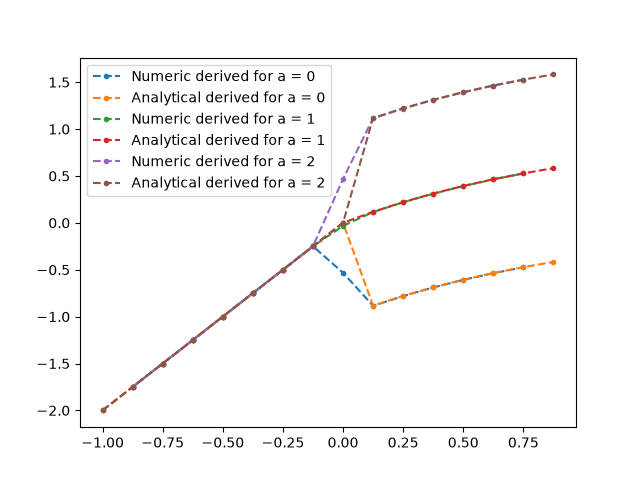
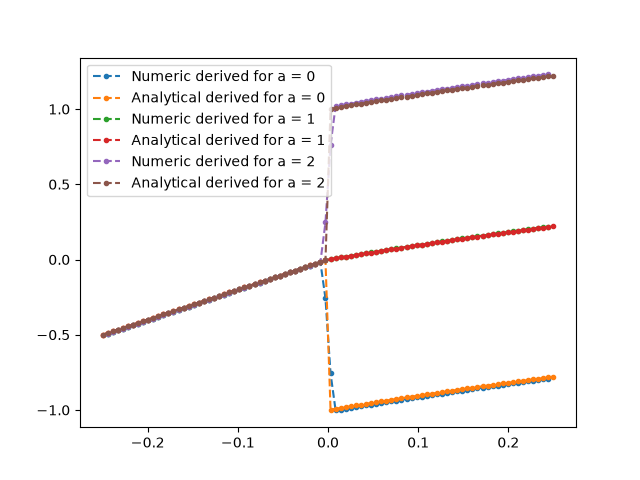
Created the code for problem 2.3

diff --git a/Discontinuities/main.py b/Discontinuities/main.py
@@ -26,6 +26,8 @@ def problem_a() -> None:
     plt.figure()
 
     for a in range(3):
+        # Note: We do not have endpoint=False, as we are not dealing with a periodic domain
+        # We hence do want the last elemement in the linspace included.
         x = np.linspace(-1, 1, 30)
         plt.errorbar(x, f(x, a), fmt="--.", label=f"Function for a = {a}")
 
@@ -47,11 +49,13 @@ central_second_order_coeffecients = np.array([-0.5, 0.0, 0.5])
 
 def problem_c() -> None:
 
+    center_zoom = 4
+
     a_vals = range(3)
-    grid_count = 16
-    grid_points = np.linspace(-1, 1, grid_count, endpoint=False)
+    grid_count = 90
+    grid_points = np.linspace(-1.0 / center_zoom, 1.0 / center_zoom, grid_count)
     grid_values = np.stack([f(grid_points, a) for a in a_vals])  # A 3xN array
-    delta_x = 2.0 / grid_count
+    delta_x = 2.0 / grid_count / center_zoom
 
     # We use axis=1, so that we have an array of lenght 3, containing 3xN matrices.
     # This matched the situation we used in problem 2.1, and allows us to calculate using a matrix multiplication
@@ -87,6 +91,71 @@ def problem_c() -> None:
     plt.legend()
     plt.savefig("numerical_derived_comparison.png")
 
+def problem_d() -> None:
+    # We basically just want to use a forward scheme for x > 0, and a backwars scheme otherwise.
+    # That way we only use points on the same side of 0, to calculate the derivative.
+    # Because i am lazy, i won't define the derivative at the border, but there we could just use whatever scheme that fits.
+
+    a_vals = range(3)
+    grid_count = 90
+    grid_points = np.linspace(-1.0 , 1.0 , grid_count)
+    grid_values = np.stack([f(grid_points, a) for a in a_vals])  # A 3xN array
+    delta_x = 2.0 / grid_count
+
+    # We use the [i-2, i+2], so that we don't need to do any logic for which values of u to pass along
+    backward_schem = np.array([  # i-2, i-1, i, i+1, i=2
+                                 0, 0, 1, -4, 3 
+                              ]) / (2 * delta_x)
+
+    forward_scheme = np.array([  # i-2, i-1, i, i+1, i=2
+                                 -3, 4, -1, 0, 0 
+                              ]) / (2 * delta_x)
+
+    # We now have an maxtrix of schemes, which is 5xN
+    schemes = np.stack([forward_scheme if point < 0 else backward_schem for point in grid_points])
+    shifted_values = np.stack(
+        [np.roll(grid_values, -shift) for shift in range(-2, 3)], axis=2
+    )
+    print(shifted_values.shape)
+    print(schemes.shape)
+
+    results = schemes * shifted_values
+    derived_plural = np.sum(results, axis = 2)
+
+    derived_plural = derived_plural[:, 2:-2]
+    derived_points = grid_points[2:-2]
+
+    # DONT DO MATRIX MULT; WE CAN JUST MULTIPLY NUMPY ARRAYS AND SUM AXIS...
+
+    plt.figure()
+
+    sample_distance = 1
+
+    for a, derived in zip(a_vals, derived_plural):
+        plt.errorbar(
+            derived_points[0::sample_distance],
+            derived[0::sample_distance],
+            fmt="--.",
+            label=f"Numeric derived for a = {a}",
+        )
+        plt.errorbar(
+            grid_points[0::sample_distance],
+            f_derived(grid_points[0::sample_distance], a),
+            fmt="--.",
+            label=f"Analytical derived for a = {a}",
+        )
+
+    plt.legend()
+    plt.savefig("numerical_derived_comparison_test.png")
+
+
+    
+
+    
+    
+
+    return
 
 problem_a()
 problem_c()
+problem_d()
